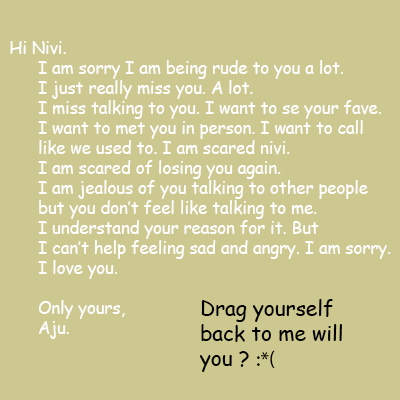
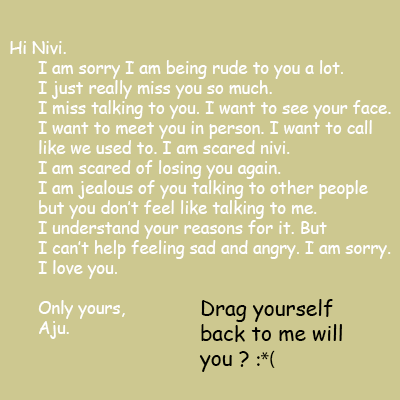
Fixed Typos in Letter Content and Added Letter Prompt

Changed region(s): [[0.33, 0.24, 0.99, 0.36], [0.57, 0.54, 0.81, 0.6], [0.51, 0.21, 0.69, 0.24]]

diff --git a/LetterScene.js b/LetterScene.js
@@ -26,6 +26,7 @@ class LetterScene extends Phaser.Scene
         });
 
         gameState.letter = this.add.sprite(100, 300, "letter");
+        gameState.letterPrompt = this.add.text(25, 200, "Drag yourself here", { font: "20pt Impact", stroke: "black", strokeThickness: 5 });
         gameState.nivi = this.add.sprite(700, 300, "nivi").setInteractive();
         gameState.aju = undefined;
 
@@ -46,6 +47,7 @@ class LetterScene extends Phaser.Scene
             this.add.sprite(500, 250, "letterContent");
             gameState.aju = this.add.sprite(710, 450, "aju");
             gameState.nivi.depth = 1;
+            gameState.letterPrompt.destroy();
         }
 
         if(gameState.aju !== undefined)
